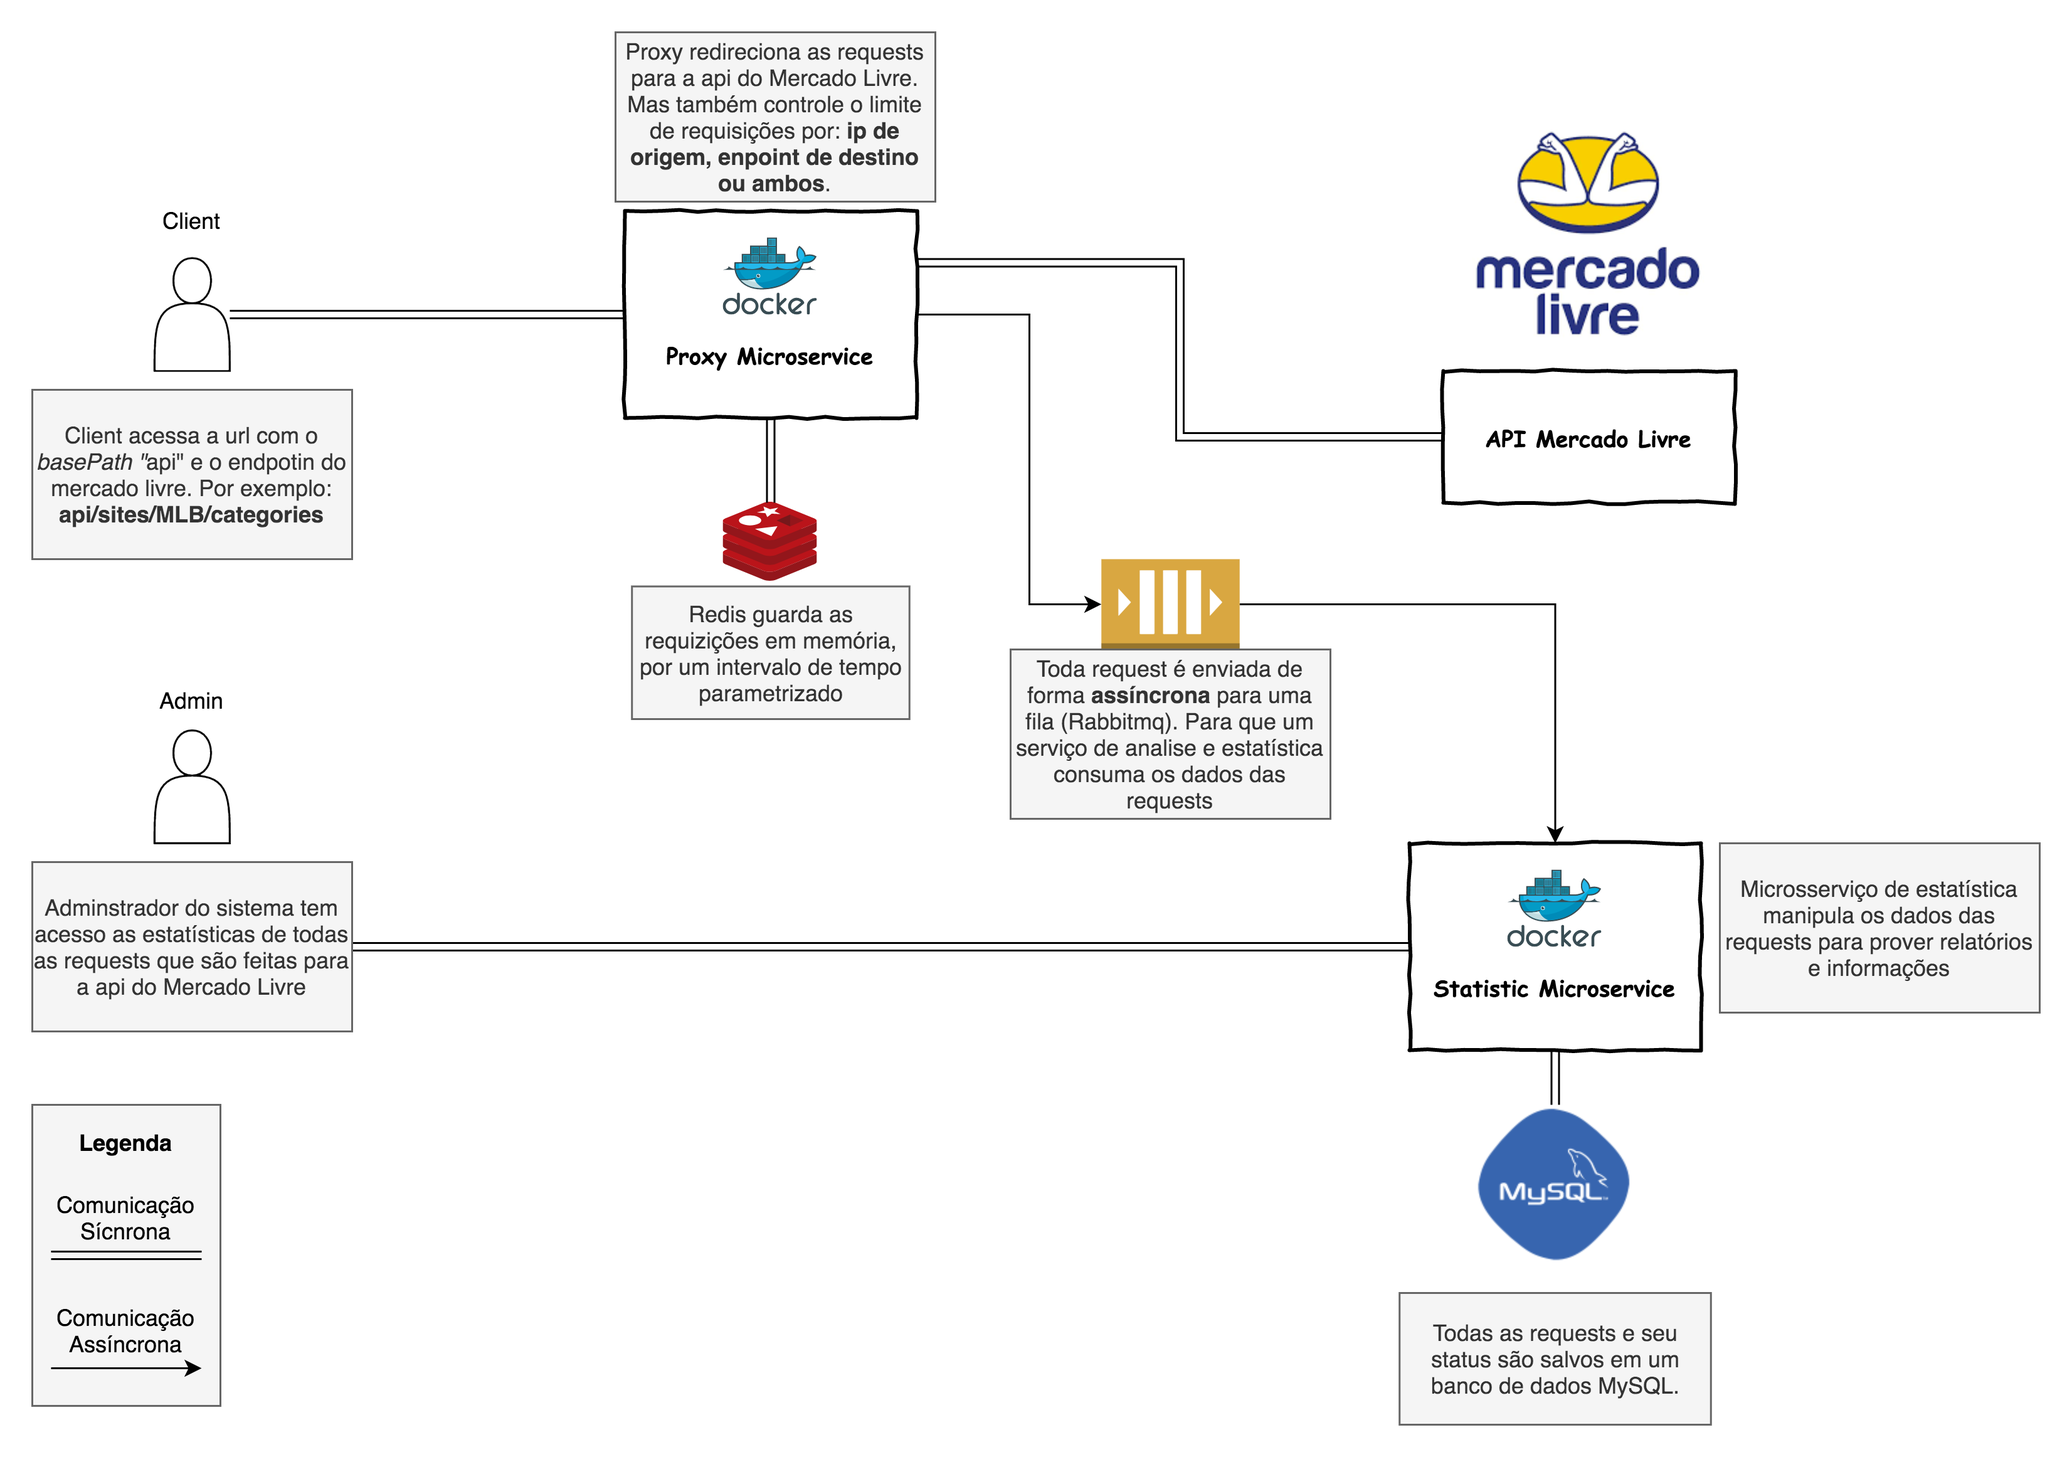
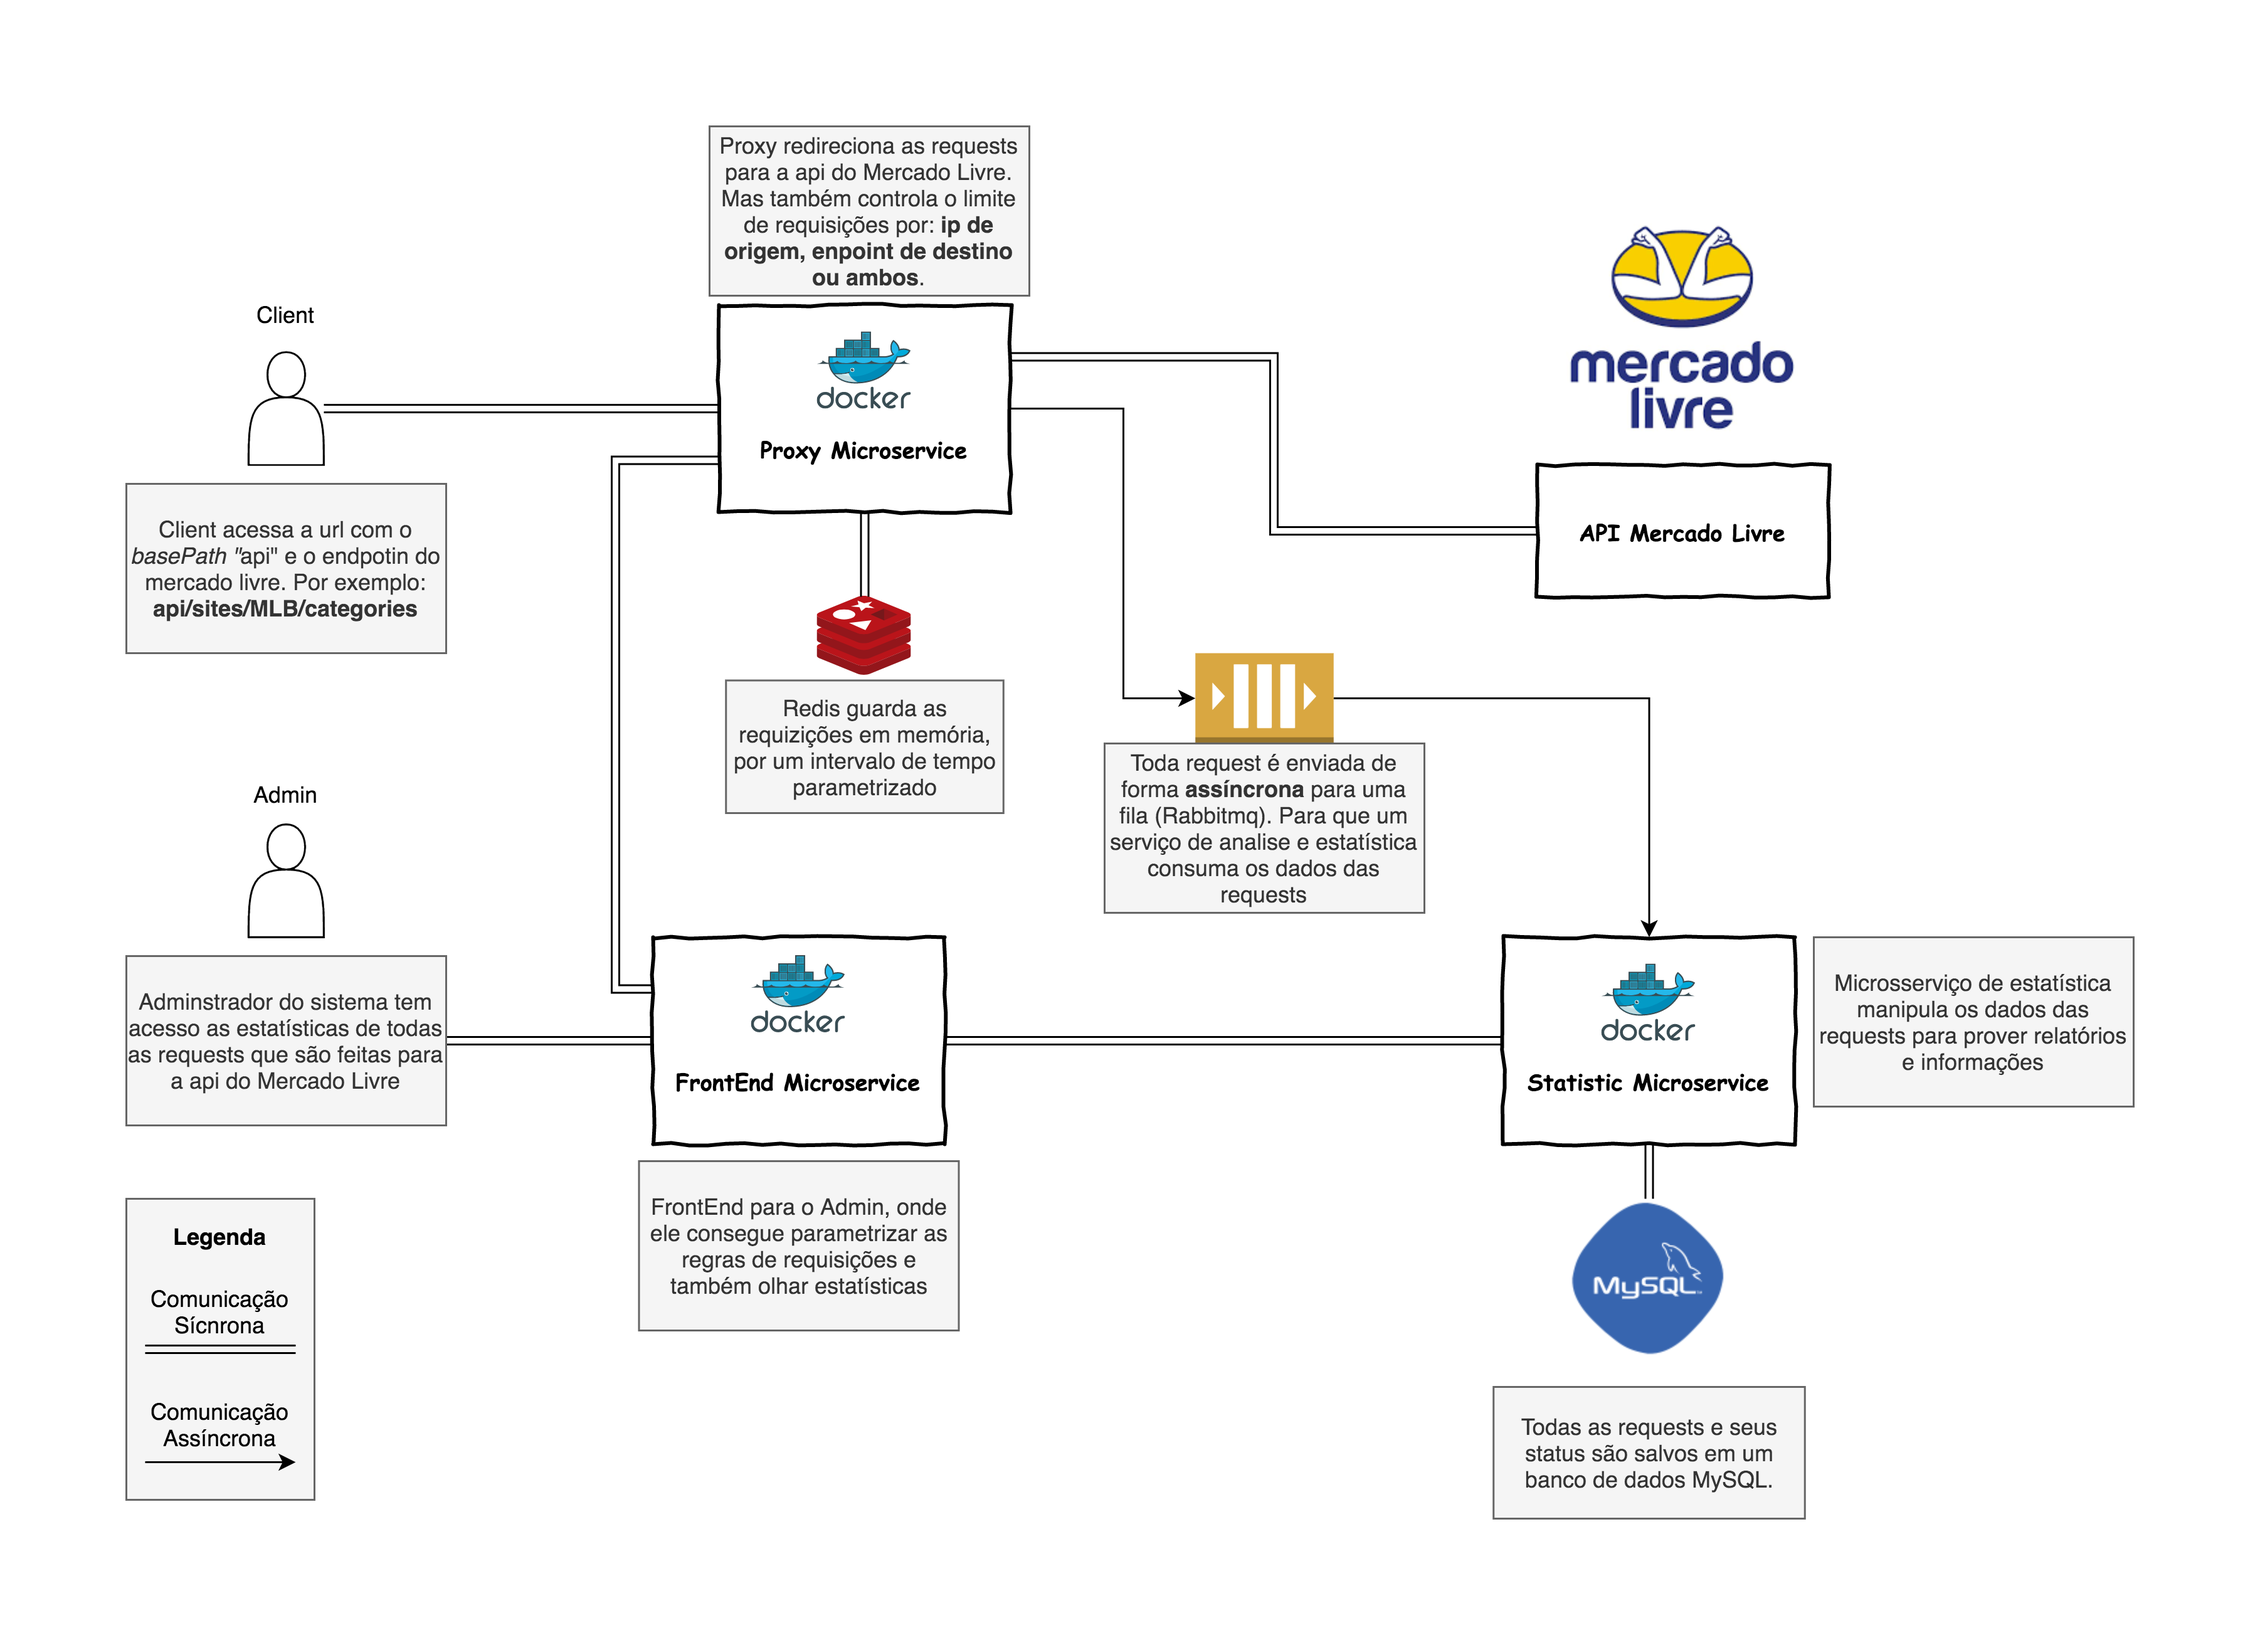
update readme

diff --git a/front-admin/src/index.html b/front-admin/src/index.html
@@ -1,7 +1,7 @@
 <!DOCTYPE html>
 <html>
 <head>
-    <title>Porxy Control Pane</title>
+    <title>Proxy Control Pane</title>
     <link rel="stylesheet" type="text/css" href="./css/styles.css">
     <link href="https://fonts.googleapis.com/css2?family=Ubuntu:wght@300&display=swap" rel="stylesheet">
 </head>
@@ -11,19 +11,19 @@
 
     <div class="card most-ip">
         <lavel>ORIGIN IP</lavel>
-        <h4 id="ip">192.168.149</h4>
-        <p id="ipTimes">1240 times</p>
+        <h4 id="ip"></h4>
+        <p id="ipTimes"></p>
     </div>
     <div class="card most-target">
         <lavel>TARGET ENDPOINT</lavel>
-        <h4 id="target">/sites/MLB/categories</h4>
-        <p id="targetTimes">1240 times</p>
+        <h4 id="target"></h4>
+        <p id="targetTimes"></p>
     </div>
     <div class="card most-both">
         <lavel>BOTH</lavel>
-        <h4 id="bothIp">192.168.149</h4>
-        <h4 id="bothTarget">/sites/MLB/categories</h4>
-        <p id="bothTimes">1240 times</p>
+        <h4 id="bothIp"></h4>
+        <h4 id="bothTarget"></h4>
+        <p id="bothTimes"></p>
     </div>
 
 </div>

diff --git a/README.md b/README.md
@@ -1,16 +1,16 @@
 # Meli Proxy 
 
-O projeto Meli Proxy tem como objetivo, mais do que fornecer um proxy das requizições 
+O projeto Meli Proxy tem como objetivo, mais do que fornecer um proxy das requisições 
 do Mercado Livre mas também controlar o fluxo dessas requizições e prover uma forma de 
-se tirar estatísicas e informações sobre todas as requizições. 
+se tirar estatísticas e informações sobre todas as requisições. 
 
-Controlamos o límite máximo de requizições por:
+Controlamos o limíte máximo de requisições por:
 
 * IP de origem
 * Path de destino
 * E ambos
 
-Todos os límites são parametrizaveis, bem como também o tempo de expiração 
+Todos os limítes são parametrizáveis, bem como também o tempo de expiração 
 das requests.
 
 ### Sumário
@@ -23,13 +23,15 @@ das requests.
 
     - [Atenção!](#atenção)
 
+- [Tela de Parametrização](#tela-de-parametrizao)
+
 - [Arquitetura do Projeto](#arquitetura-do-projeto)
 
 - [Endpoints do Projeto](#endpoints-do-projeto)
 
 ## Startup do Projeto
 
-### Requisitos para todar o projeto
+### Requisitos para rodar o projeto
 ````
 Maven 3.6.0
 Java version 8
@@ -54,7 +56,7 @@ $ ...go have a coffe
 
 ```
 ### Atenção!
-Os endereços de portas a seguir precisam estar disponíveis no seus sistema:
+Os endereços de portas a seguir precisam estar disponíveis no seu sistema:
 
 * 8080
 * 8081
@@ -62,6 +64,29 @@ Os endereços de portas a seguir precisam estar disponíveis no seus sistema:
 * 15672
 * 5672
 * 6379
+* 80
+
+## Tela de Parametrização
+
+Existe um front-end desenvolvido para que um usuário Admin possa parametrizar 
+e olhar as estatísticas das requests enviadas.
+
+Abaixo existe a imagem do front-end para parametrização e análise estatística. Logo depois uma 
+explicação de cada campo da tela:
+
+<p align="center">
+    <img src="./img/front-end.png" alt="Front-end">
+</p>  
+
+- Na parte de cima da tela temos três cards mostrando: O ip de origem com a maior quantidade de requests, 
+o endpoint mais requisitado e, por fim, o endpoint e o ip de origem mais usados em uma mesma request.
+
+- Em baixo, no lado esquerdo temos o formulário de parametrização contendo: Limite máximo que um ip pode fazer uma requisição,
+limíte máximo que um endpoint pode ser chamado, o limite máximo que podemos ter o mesmo ip e o mesmo endpoint em uma request e 
+o tempo de expiração onde os limites são renovados.
+
+- No lado direito temos um formulário de teste que quando digitamos um endpoint e enviamos o comando, ele verifica que se 
+a chamada foi permitida (Status 200 Ok) ou se ela foi proibida (Status 403 Forbiden)
 
 ## Arquitetura do Projeto
 
@@ -74,30 +99,34 @@ As aplicações que compõem o projeto são:
 * MySQL
 * Proxy Microservice
 * Statistic Microservice
+* Fron-End Microsservice
 
 O fluxo do projeto obedece a seguinte ordem dentro das aplicações:
 
-1. O client faz uma requizição para o domínio do Mercado Livre. O Proxy Microservice 
-intercepta a requizição. A aplicação valida se é a requisição não tem nenhuma das 
-regras de limite excedidas. Caso não tenha, ele cria um registro no Redis e também envia 
+1. O client faz uma requisição para o domínio do Mercado Livre. O Proxy Microservice 
+intercepta a requisição. A aplicação valida se a requisição não tem nenhuma das 
+regras de limíte excedidas. Caso não tenha, ele cria um registro no Redis e também envia 
 a request para o RabbitMQ. Caso tenha excedido, o proxy bloqueia a request e retorna o 
-status 403 (Probído).
+status 403 (Proibido).
 
-2. O Redis tem a reponsabilidade de salvar e prover as inforamções das requests de 
+2. O Redis tem a responsabilidade de salvar e prover as informações das requests de 
 forma performática. Ele tem um tempo de expiração de dados parametrizados, para deixar 
 salvo apenas as requests usadas para validação das próximas requests. Basicamente o Redis 
-serve para prover a informação se uma request excedeu os limites parametriaados ou não.
+serve para prover a informação se uma request excedeu os limites parametrizados ou não.
 
 3. O RabbitMQ tem como função armazenar de forma assíncrona todas as requests que 
 passam pelo proxy, mesmo as bloqueadas. Para não onerar o tempo de processamento do
-proxy a fila segura as requests até que o microsserviço de estatísicas as receba. 
-Isto serve para que o proxy não fique esperando o serivço de estatística responder.
+proxy a fila segura as requests até que o microsserviço de estatísticas as receba. 
+Isto serve para que o proxy não fique esperando o seriviço de estatística responder.
 
-4. O microsserivço de estatísica pega todas as requests da fila e guarada elas em um 
+4. O microsserivço de estatística pega todas as requests da fila e guarda elas em um 
 banco de dados, para depois poder prover esses dados para análise e estatística das 
 requests. Ele tem alguns endpoints para que os dados possam ser acessados.
 
 5. O MySQL é o banco usado para guardar os dados do microsserviço de estatística.
+
+6. O microsserviço do Front-End abriga a tela de parametrização explicada anteriormente.
+
 
 Abaixo existe a imagem da arquitetura descrita nos tópicos acima, para um melhor entendimento:
 
